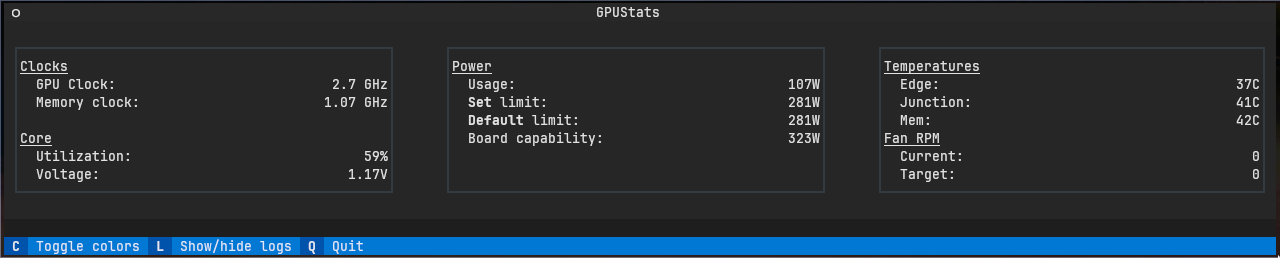
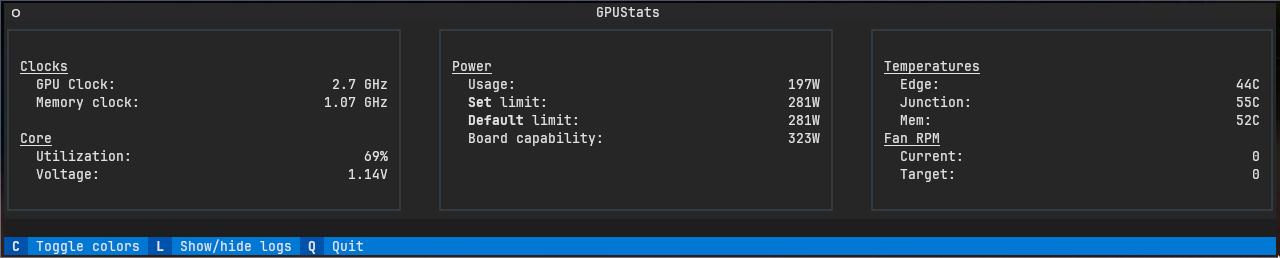
increase padding

diff --git a/stats.css b/stats.css
@@ -4,15 +4,13 @@ GPUStatsWidget {
 	grid-gutter: 2 4;
 	background: $boost;
 	height: 11;
-/*	margin: 1;*/
 	min-width: 50;
-/*	padding: 1;*/
+	padding: 1;
 }
 
 /* for colors, see: https://textual.textualize.io/guide/design/#theme-reference */
 
 .box {
-	margin: 1;
 	height: 100%;
 /*	border: ascii $primary-background;*/
 	border: solid $primary-background;
